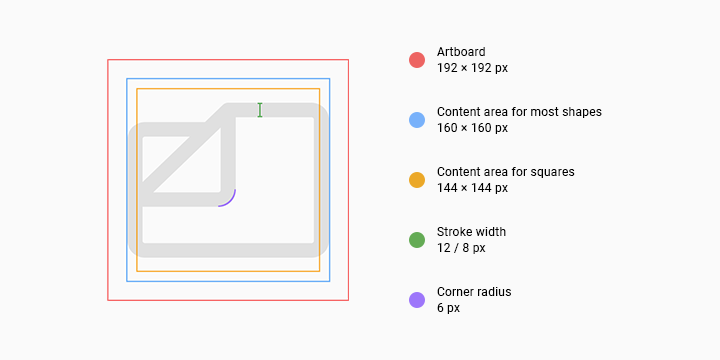
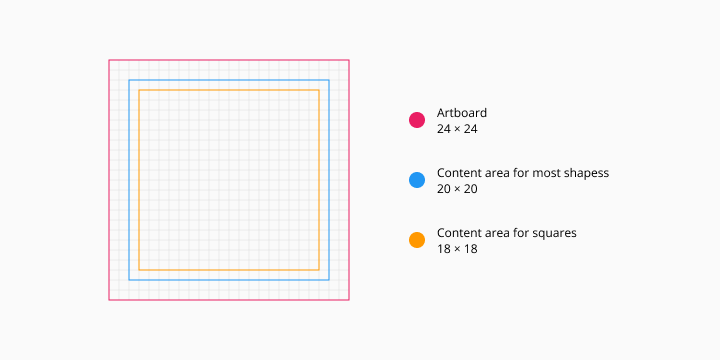
Update CONTRIBUTING.md
Add new (old) icon guidelines

diff --git a/CONTRIBUTING.md b/CONTRIBUTING.md
@@ -1,21 +1,19 @@
-# Lawnicons contributing guide
-Welcome to the Lawnicons contributing guide! This file will tell you  what you need to know to contribute to Lawnicons.
+# Lawnicons reFilled contributing guide
+Welcome to the Lawnicons reFilled contributing guide! This file will tell you  what you need to know to contribute to the project.
 
 ## Icon guidelines
 See the below image for a summary of the icon guidelines. If you don't follow them, a team member will likely request changing the icons.
 
 ![](./contributing-image-1.png)
 
-Each icon must fit the 160x160px or 144x144px (depending on the shape) content area size. It must not be smaller nor bigger than the specified sizes.
+Each icon must fit the 20x20 or 18x18 (depending on the shape) content area size. It must not be smaller nor bigger than the specified sizes.
 
-The stroke should be kept at 12px for most lines. If 12px is too thick, a stroke of 8px can be used.
-
-In addition to the above, the icons must have an outlined (not filled) style. If the original icon has a filled style, you should change the icon to adhere to the guidelines as seen below.
+In addition to the above, the icons must have an filled (not outlined) style.
 
 ![](./contributing-image-2.png)
 
-## Adding an icon to Lawnicons
-Here’s how to add an icon to&nbsp;Lawnicons:
+## Adding an icon
+Here’s how to add an icon to&nbsp;Lawnicons reFilled:
 
 1. Prepare your icon in the SVG format, adhering to the [above guidelines](#icon-guidelines). Use snake case for the filename (e.g.,&nbsp;`youtube_music.svg`).
 
@@ -25,13 +23,13 @@ Here’s how to add an icon to&nbsp;Lawnicons:
 1. Add a new line to `app/assets/appfilter.xml` (in alphabetical order), and map the new icon to a package name and app's activity. For&nbsp;example:
 
     ```xml
-      <item component="ComponentInfo{com.google.android.apps.nbu.files/com.google.android.apps.nbu.files.home.HomeActivity}" drawable="files_by_google" name="Files by Google"/> 
+      <item component="ComponentInfo{com.google.android.apps.nbu.files/com.google.android.apps.nbu.files.home.HomeActivity}" drawable="files_by_google" name="Files by Google"/>
     ```
 
     A general template is as&nbsp;follows:
 
     ```xml
-    <item component="ComponentInfo{[PACKAGE_NAME]/[APP_ACIVITY_NAME]}" drawable="[DRAWABLE NAME]"/> 
+    <item component="ComponentInfo{[PACKAGE_NAME]/[APP_ACIVITY_NAME]}" drawable="[DRAWABLE NAME]"/>
     ```
 1. Done! You’re ready to open a pull request. Please set `develop` as the base&nbsp;branch.
 
@@ -47,7 +45,7 @@ Here’s how to add an icon to&nbsp;Lawnicons:
   **For Mac/Linux**:
 
   ```xml
-  adb shell dumpsys window | grep -E 'mCurrentFocus'  
+  adb shell dumpsys window | grep -E 'mCurrentFocus'
   ```
 
   **For Windows**:
@@ -60,7 +58,7 @@ Here’s how to add an icon to&nbsp;Lawnicons:
   Here, the part before the `/` character i.e `org.telegram.messenger` is the package name `[PACKAGE_NAME]` and the part after that i.e `org.telegram.messenger_.DefaultIcon` is the Activity name `[APP_ACIVITY_NAME]`.
 
 ### Using 3rd Party Apps.
-  1. Download [Icon Request App](https://github.com/Kaiserdragon2/IconRequest/releases). 
+  1. Download [Icon Request App](https://github.com/Kaiserdragon2/IconRequest/releases).
   1. Launch the app and click ok, let's start.
   1. Get the Activity details for each app.
 
